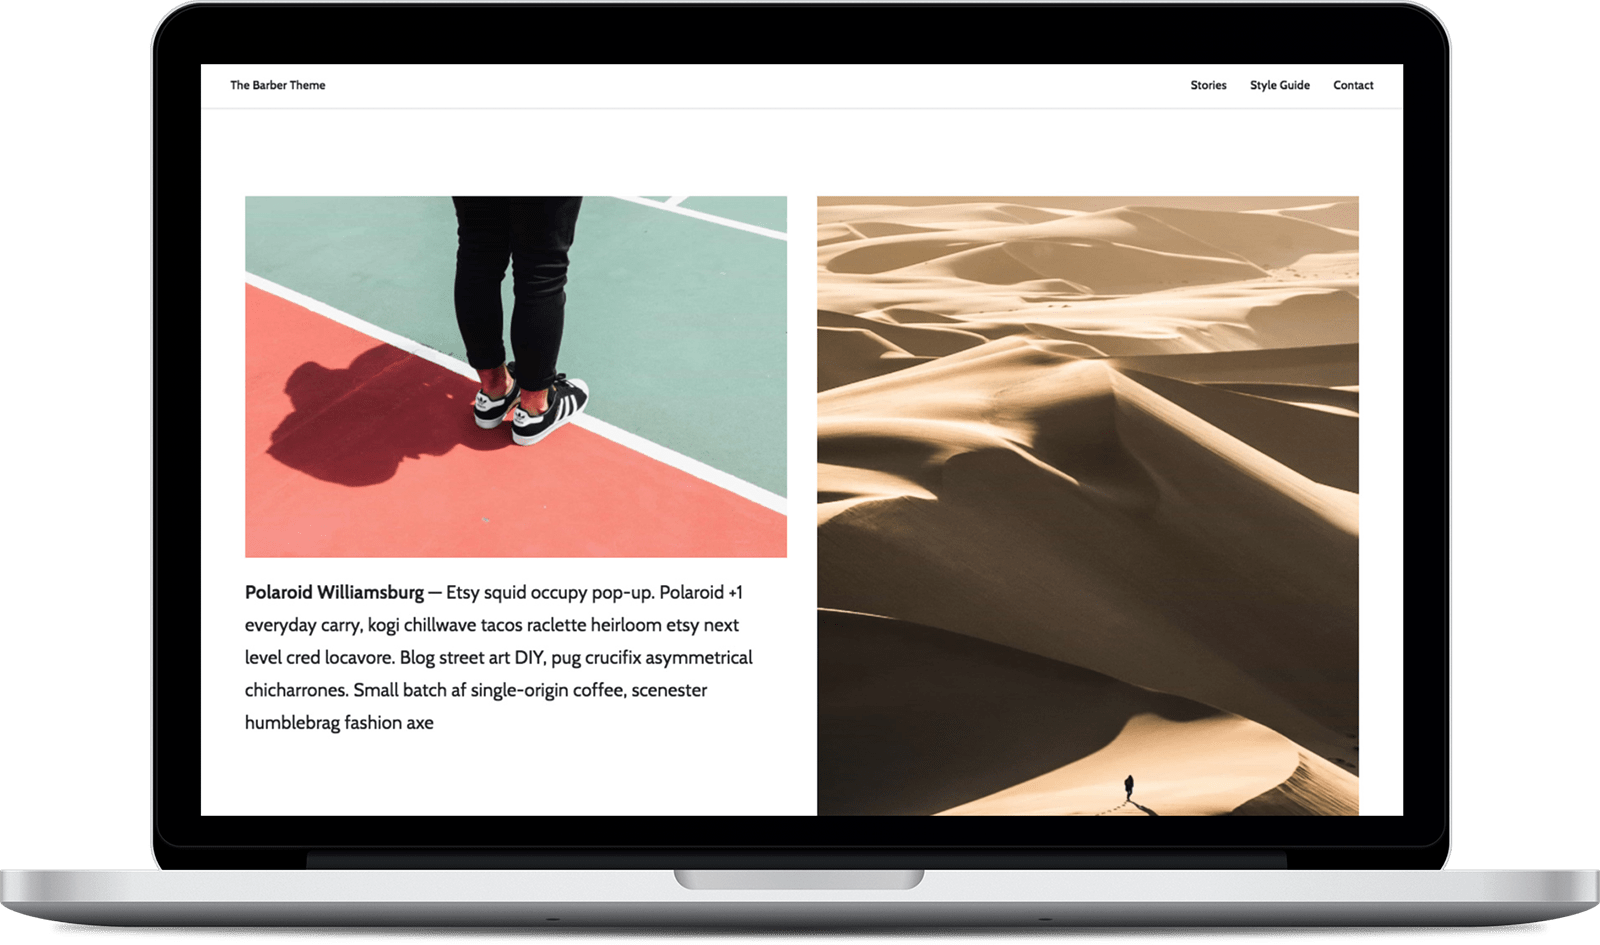
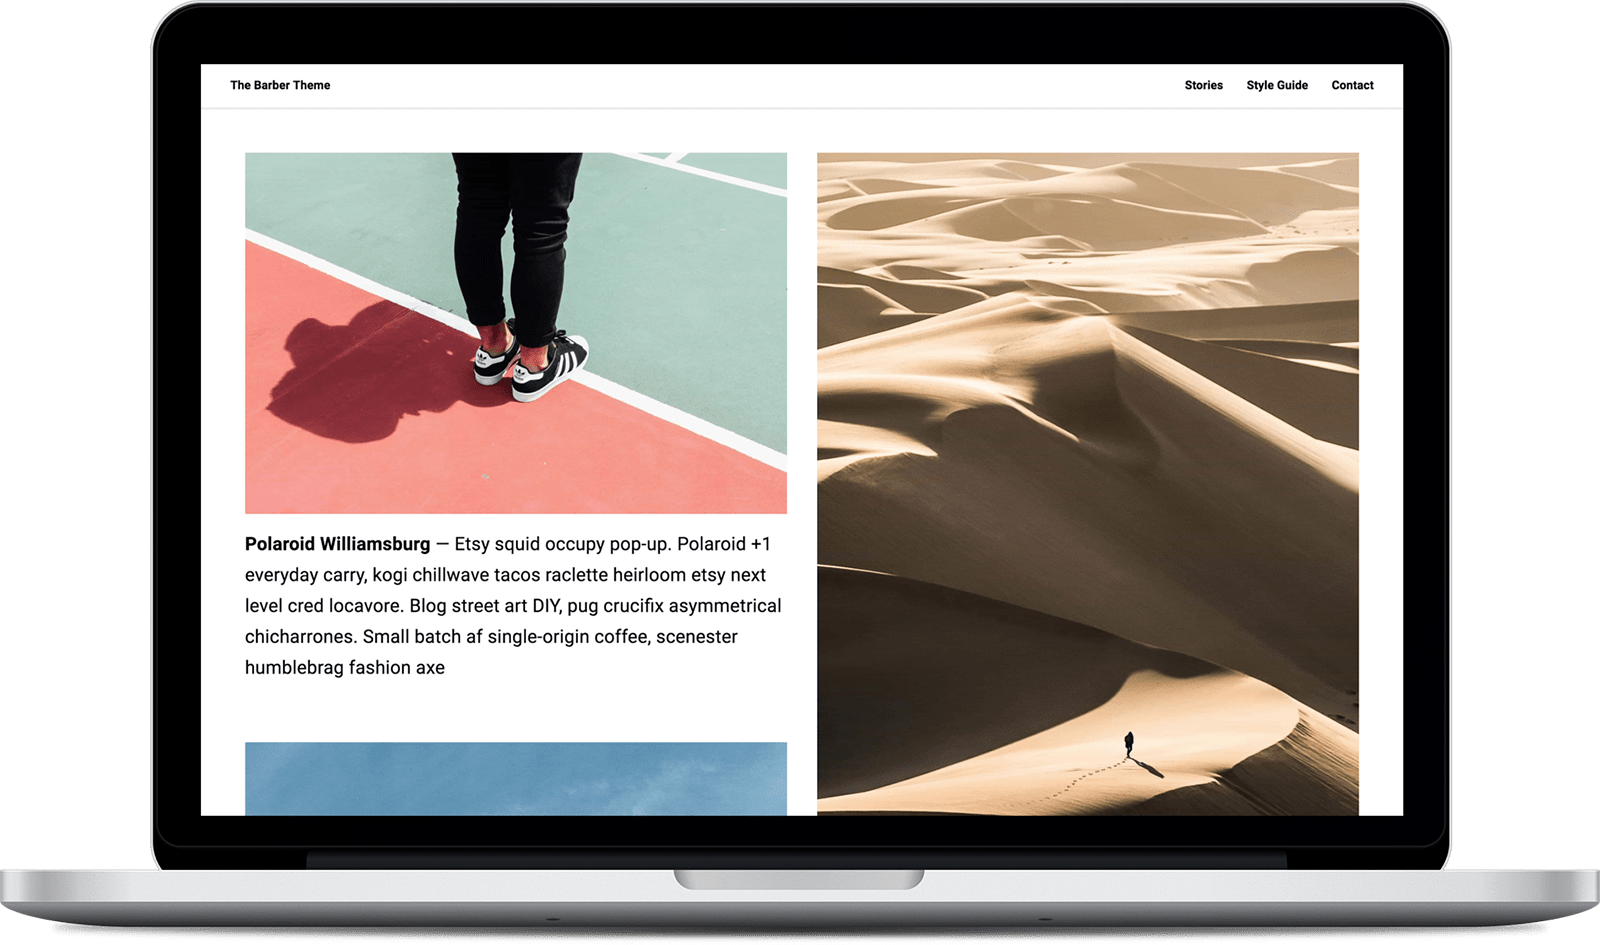
Ditched Grayscale for CryptoLogg.

diff --git a/index.html b/index.html
@@ -12,6 +12,13 @@ layout: default
     <h2 class="portfolio__header">Recent Work</h2>
     <ul class="portfolio__list">
       <li class="portfolio__item">
+        <a href="http://www.cryptologg.com/" target="_blank" title="CryptoLogg" onclick="return trackOutboundLink('http://www.cryptologg.com/', 'portfolio');">
+          <figure class="portfolio__img">
+            <img src="/assets/images/portfolio/cryptologg.png" alt="CryptoLogg"/>
+          </figure>
+        </a>
+      </li>
+      <li class="portfolio__item">
         <a href="http://barber.samesies.io" target="_blank" title="Barber" onclick="return trackOutboundLink('http://barber.samesies.io', 'portfolio');">
           <figure class="portfolio__img">
             <img src="/assets/images/portfolio/barber.png" alt="Barber"/>
@@ -36,13 +43,6 @@ layout: default
         <a href="http://inrix.com" target="_blank" title="INRIX" onclick="return trackOutboundLink('http://inrix.com', 'portfolio');">
           <figure class="portfolio__img">
             <img src="/assets/images/portfolio/inrix.png" alt="INRIX"/>
-          </figure>
-        </a>
-      </li>
-      <li class="portfolio__item">
-        <a href="http://grayscaledesignstudio.com" target="_blank" title="Grayscale Design Studio" onclick="return trackOutboundLink('http://grayscaledesignstudio.com', 'portfolio');">
-          <figure class="portfolio__img">
-            <img src="/assets/images/portfolio/grayscale.png" alt="Grayscale Design Studio"/>
           </figure>
         </a>
       </li>
